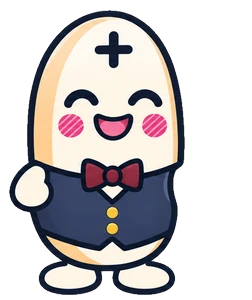
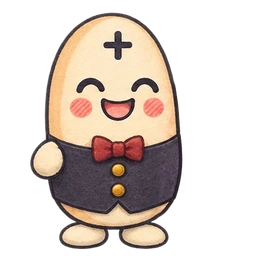
[Codex] Repaint six starter-town characters (#640)
* Share a cache revision across repainted townsfolk portraits and idle art

* Repaint six Kampong Glam townsfolk and their idle cels

diff --git a/src/render/creatureRigs.js b/src/render/creatureRigs.js
@@ -416,8 +416,9 @@ const RIG_DATA = {
 const TOWN_DATA = {
   farmer: { W: 229, H: 300, ref: [9, 9, 218, 296], piv: { body: [0.4694, 0.506], arm: [0.5775, 0.6075], body_blink: [0.4694, 0.506], arm_wave: [0.6228, 0.552] } },
   fletcher: { W: 234, H: 300, ref: [13, 9, 225, 296], piv: { body: [0.5326, 0.5199], arm: [0.3256, 0.5755], body_blink: [0.5326, 0.5199], arm_wave: [0.3592, 0.5372] } },
-  guide: { W: 221, H: 300, ref: [9, 9, 212, 296], piv: { body: [0.4477, 0.5045], arm: [0.5108, 0.5771], body_blink: [0.4477, 0.5045] } },
-  hawker: { W: 244, H: 300, ref: [9, 9, 234, 296], piv: { body: [0.5774, 0.5027], arm: [0.3355, 0.5956], body_blink: [0.5774, 0.5027], arm_wave: [0.3744, 0.4729] } },
+  // The repainted starter residents share a 256px canvas and a common foot line.
+  guide: { W: 256, H: 256, ref: [42, 12, 214, 249], piv: { body: [0.5, 0.5], body_blink: [0.5, 0.5], arm: [0.6731, 0.6717] } },
+  hawker: { W: 256, H: 256, ref: [29, 12, 226, 249], piv: { body: [0.5, 0.5], body_blink: [0.5, 0.5], arm: [0.3259, 0.631], arm_wave: [0.3259, 0.631] } },
   light_priestess: { W: 220, H: 300, ref: [9, 9, 211, 296], piv: { body: [0.4939, 0.5131], body_blink: [0.4939, 0.5131] } },
   mage: { W: 213, H: 300, ref: [9, 9, 205, 296], piv: { body: [0.4674, 0.5329], arm: [0.6373, 0.6696], body_blink: [0.4674, 0.5329], arm_wave: [0.6175, 0.5624] } },
   mercenary_bruiser: { W: 197, H: 300, ref: [13, 9, 188, 296], piv: { body: [0.4724, 0.5113], arm: [0.1756, 0.48], body_blink: [0.4724, 0.5113], arm_wave: [0.1919, 0.4807] } },
@@ -425,12 +426,13 @@ const TOWN_DATA = {
   mercenary_sellsword: { W: 224, H: 300, ref: [9, 9, 215, 296], piv: { body: [0.4059, 0.5115], arm: [0.5433, 0.5477], body_blink: [0.4059, 0.5115], arm_wave: [0.4939, 0.5129] } },
   mercenary_spear_guard: { W: 173, H: 300, ref: [9, 9, 164, 296], piv: { body: [0.4299, 0.5417], body_blink: [0.4299, 0.5417] } },
   shadow_broker: { W: 223, H: 300, ref: [9, 9, 202, 296], piv: { body: [0.4406, 0.5031], arm: [0.6587, 0.5951], body_blink: [0.4406, 0.5031], arm_wave: [0.6013, 0.5143] } },
-  shopkeeper: { W: 245, H: 300, ref: [9, 9, 237, 296], piv: { body: [0.4278, 0.5185], arm: [0.6561, 0.5843], body_blink: [0.4278, 0.5185], arm_wave: [0.6198, 0.5396] } },
-  skills_tutor: { W: 230, H: 300, ref: [9, 9, 221, 296], piv: { body: [0.4479, 0.5239], arm: [0.6755, 0.6377], body_blink: [0.4479, 0.5239], arm_wave: [0.6312, 0.5771] } },
+  pest_officer: { W: 256, H: 256, ref: [22, 12, 233, 249], piv: { body: [0.5, 0.5], body_blink: [0.5, 0.5] } },
+  shopkeeper: { W: 256, H: 256, ref: [31, 12, 225, 249], piv: { body: [0.5, 0.5], body_blink: [0.5, 0.5], arm: [0.6722, 0.6133], arm_wave: [0.6722, 0.6133] } },
+  skills_tutor: { W: 256, H: 256, ref: [41, 12, 215, 249], piv: { body: [0.5, 0.5], body_blink: [0.5, 0.5], arm: [0.6693, 0.6656], arm_wave: [0.6693, 0.6656] } },
   slayer_master: { W: 234, H: 300, ref: [9, 9, 225, 296], piv: { body: [0.47, 0.5193], body_blink: [0.47, 0.5193] } },
   villager: { W: 244, H: 300, ref: [30, 9, 236, 296], piv: { body: [0.5025, 0.5251], arm: [0.3458, 0.5075], body_blink: [0.5025, 0.5251], arm_wave: [0.39, 0.5022] } },
   aworthling: { W: 200, H: 300, ref: [9, 9, 192, 296], piv: { body: [0.4944, 0.5245], body_blink: [0.4944, 0.5245] } },
-  banker: { W: 252, H: 300, ref: [9, 9, 243, 296], piv: { body: [0.4088, 0.5185], arm: [0.5984, 0.6024], body_blink: [0.4088, 0.5185], arm_wave: [0.5689, 0.5325] } },
+  banker: { W: 256, H: 256, ref: [30, 12, 226, 249], piv: { body: [0.5, 0.5], body_blink: [0.5, 0.5], arm: [0.6848, 0.6109], arm_wave: [0.6848, 0.6109] } },
 };
 // --- end of measured data ---
 

diff --git a/src/render/sprites.js b/src/render/sprites.js
@@ -270,13 +270,18 @@ for (const [id, g] of Object.entries(REGION_GIVERS)) if (!TOWN_ART.has(id)) { TO
 // A living-world resident without a picture of their own wears the one they borrow (`art`).
 for (const [id, r] of Object.entries(RESIDENTS)) if (!TOWN_ART.has(id) && TOWN_ART.has(r.art)) TOWN_ALIAS[id] = r.art;
 const townFile = (id) => (TOWN_ART.has(id) ? id : TOWN_ALIAS[id] || null);
+// Keep a resident's new portrait and idle layers together in the offline cache.
+const REPAINTED_TOWN_ART = new Set(['banker', 'guide', 'hawker', 'pest_officer', 'shopkeeper', 'skills_tutor']);
+const townArtRevision = (id) => REPAINTED_TOWN_ART.has(id) ? '?v=2' : '';
+export const townArtSrc = (id) => TOWN_ART.has(id) ? `assets/creatures/townsfolk/${id}.webp${townArtRevision(id)}` : null;
 const _townImg = {};
 function townImage(id) {
-  if (!id || !townFile(id)) return null;
   if (_townImg[id] !== undefined) return _townImg[id];
+  const src = townArtSrc(townFile(id));
+  if (!src) return null;
   if (typeof Image === 'undefined') { _townImg[id] = null; return null; }
   const img = new Image();
-  img.src = `assets/creatures/townsfolk/${townFile(id)}.webp`;
+  img.src = src;
   _townImg[id] = img;
   return img;
 }
@@ -540,7 +545,8 @@ const rigFiles = (rig) => rig.files || rig.order;
 function rigLayers(id, rig = RIGS[id]) {
   if (!rig || typeof Image === 'undefined') return null;
   const imgs = _rigImg[id] || (_rigImg[id] = Object.fromEntries(rigFiles(rig).map((n) => {
-    const img = new Image(); img.src = `assets/creatures/${rigDir(rig.kind)}/${id}_${n}.webp${lionArtRevision(id)}`; return [n, img];
+    const revision = rig.kind === 'town' ? townArtRevision(id) : lionArtRevision(id);
+    const img = new Image(); img.src = `assets/creatures/${rigDir(rig.kind)}/${id}_${n}.webp${revision}`; return [n, img];
   })));
   return rigFiles(rig).every((n) => imgs[n].complete && imgs[n].naturalWidth) ? imgs : null;
 }

diff --git a/src/ui/hawkerui.js b/src/ui/hawkerui.js
@@ -10,7 +10,7 @@
 import { getItem } from '../data/items.js';
 import { formatNumber } from '../core/utils.js';
 import { itemIconSVG, skillIconSVG } from '../render/icons.js';
-import { townArt } from '../render/sprites.js';
+import { townArtSrc } from '../render/sprites.js';
 import { ORDERS, STALL_RENT, VIP_LEVEL, SERVICE } from '../data/hawkering.js';
 import { TICK_MS } from '../config.js';
 
@@ -18,7 +18,10 @@ const esc = (s) => String(s ?? '').replace(/[&<>"]/g, (c) => ({ '&': '&amp;', '<
 const TABS = [{ id: 'stall', name: 'Stall' }, { id: 'wok', name: 'Wok' }, { id: 'menu', name: 'Menu' }];
 const short = (n) => (n >= 1e9 ? `${(n / 1e9).toFixed(1)}B` : n >= 1e6 ? `${(n / 1e6).toFixed(1)}M` : n >= 1e4 ? `${(n / 1e3).toFixed(1)}K` : formatNumber(Math.round(n)));
 const stars = (n) => '★'.repeat(Math.floor(n)) + (n % 1 ? '½' : '') + '☆'.repeat(5 - Math.ceil(n));
-const portrait = (id) => (townArt().has(id) ? `<img class="hwk-face" src="assets/creatures/townsfolk/${esc(id)}.webp" alt="" loading="lazy">` : '<span class="hwk-face">🙂</span>');
+const portrait = (id) => {
+  const src = townArtSrc(id);
+  return src ? `<img class="hwk-face" src="${esc(src)}" alt="" loading="lazy">` : '<span class="hwk-face">🙂</span>';
+};
 
 /** A serve's XP now (as Skills.addXp adds it), and about that an hour with auto-serve. */
 function xpFigures(game, id) {

diff --git a/src/ui/storyui.js b/src/ui/storyui.js
@@ -9,7 +9,7 @@ import { REGION_GIVERS } from '../data/regionQuests.js';
 import { getNpc } from '../data/npcs.js';
 import { getItem } from '../data/items.js';
 import { pageCount, spotTile, guardianKind } from '../game/lore.js';
-import { townArt, portraitFor } from '../render/sprites.js';
+import { townArtSrc, portraitFor } from '../render/sprites.js';
 import { choiceBadgeHTML, choiceLineHTML } from './pathui.js';   // each chapter's Good / Evil choice
 
 const esc = (s) => String(s ?? '').replace(/[&<>"]/g, (c) => ({ '&': '&amp;', '<': '&lt;', '>': '&gt;', '"': '&quot;' }[c]));
@@ -18,9 +18,10 @@ const HOW = { drop: 'a rare drop from monsters here', spot: 'a glinting note hid
 
 /** A speaker's picture: their own townsfolk art, the one they borrow (recoloured), or a boss's or creature's portrait. */
 export function speakerArt(who) {
-  if (townArt().has(who)) return { src: `assets/creatures/townsfolk/${who}.webp`, filter: '' };
+  const src = townArtSrc(who);
+  if (src) return { src, filter: '' };
   const g = REGION_GIVERS[who];
-  if (g) return { src: `assets/creatures/townsfolk/${g.art}.webp`, filter: g.tint || '' };
+  if (g) return { src: townArtSrc(g.art), filter: g.tint || '' };
   const def = getNpc(who);
   const p = def && portraitFor(who, def);
   return p ? { src: p.src, filter: '', pos: p.pos } : null;
